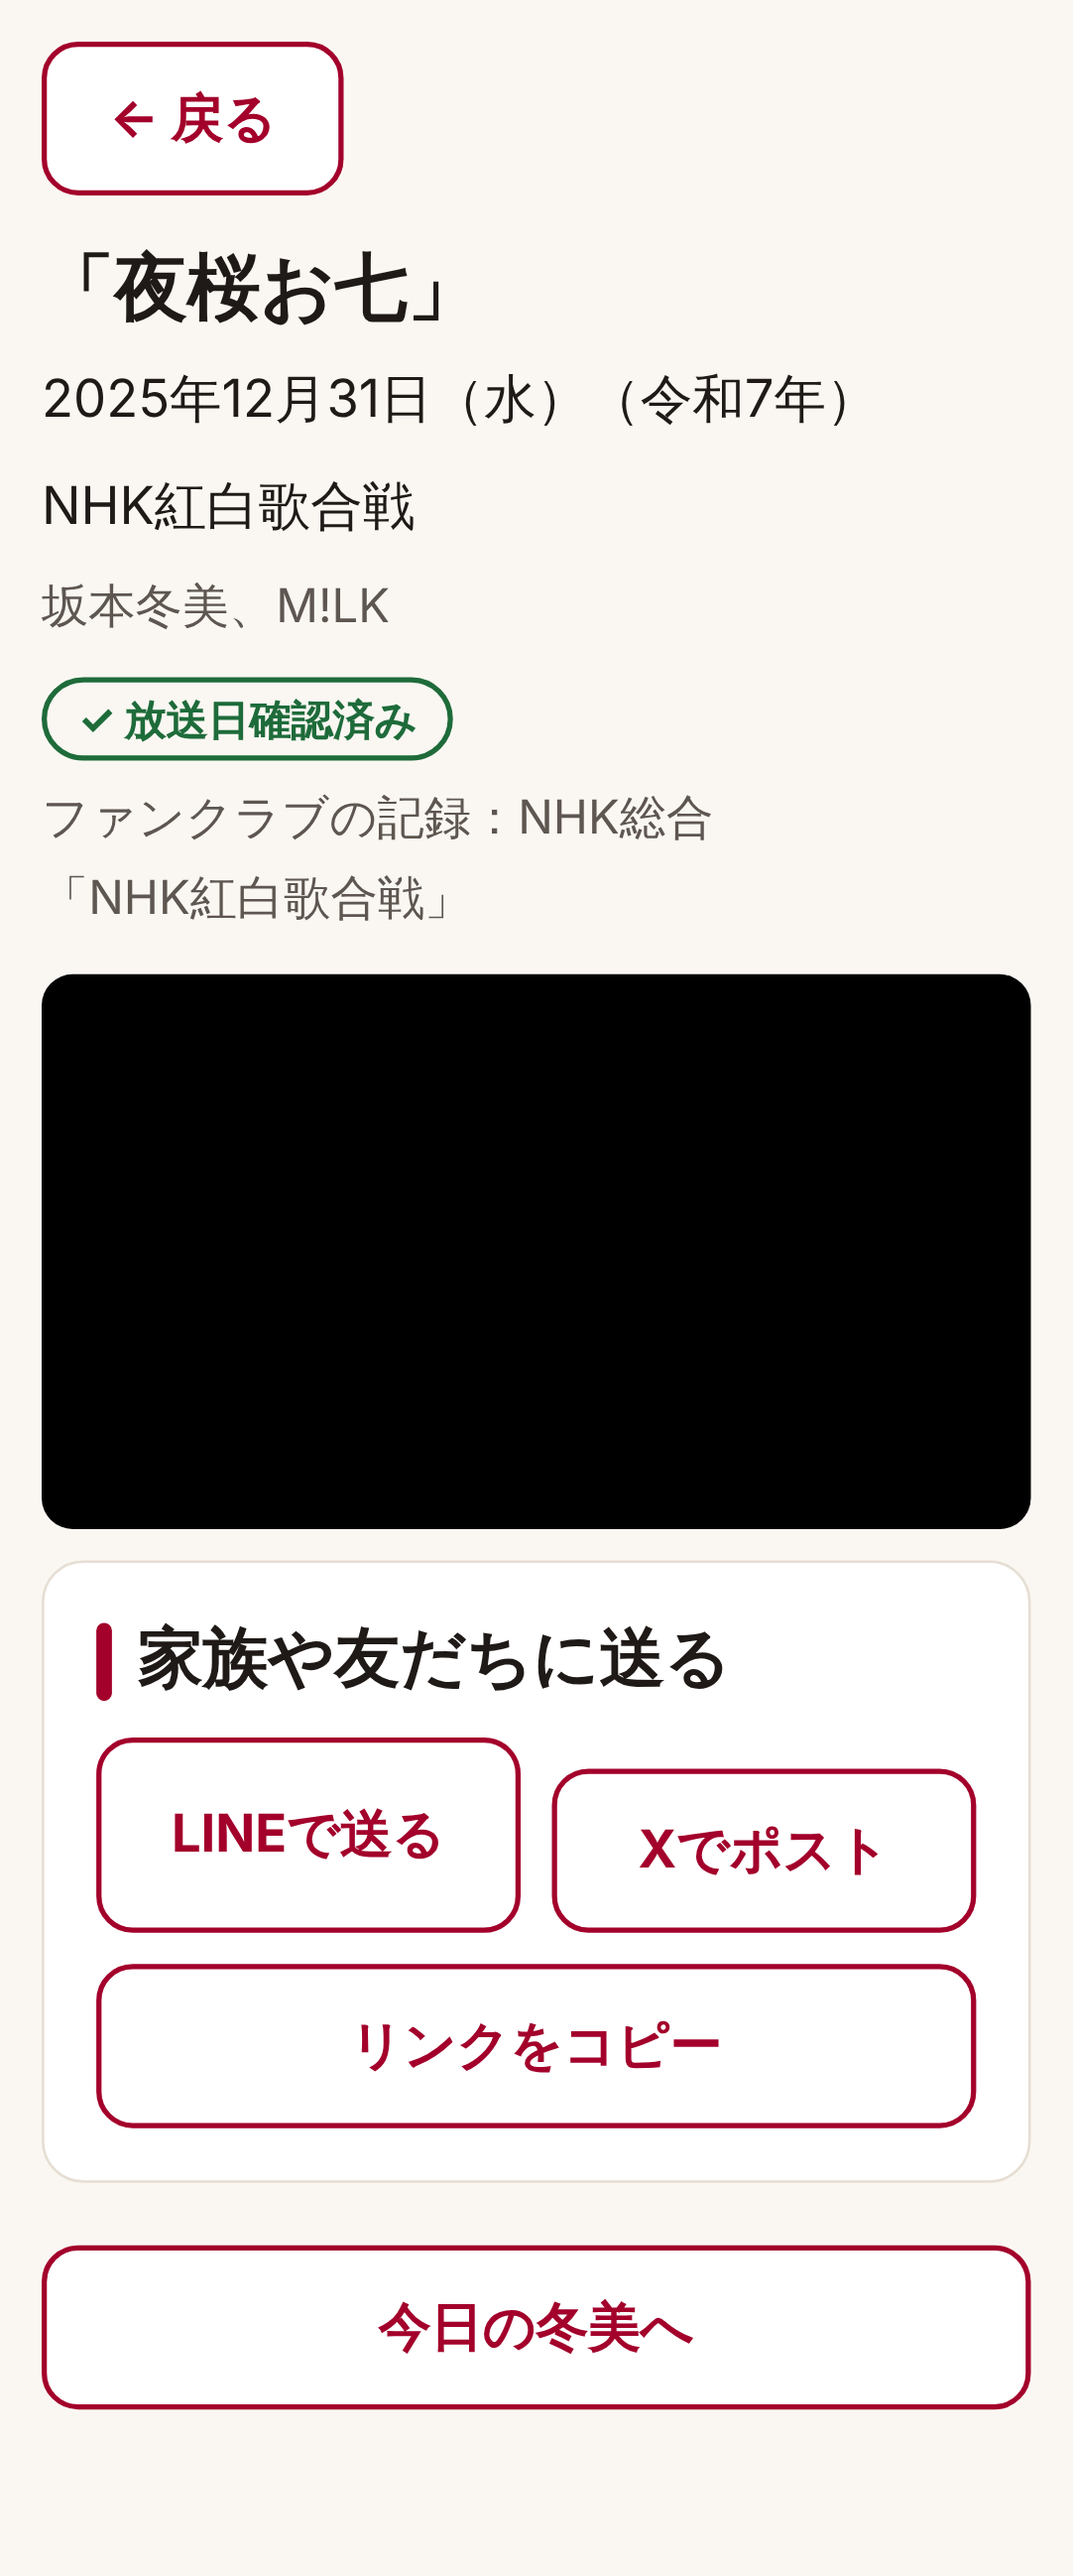
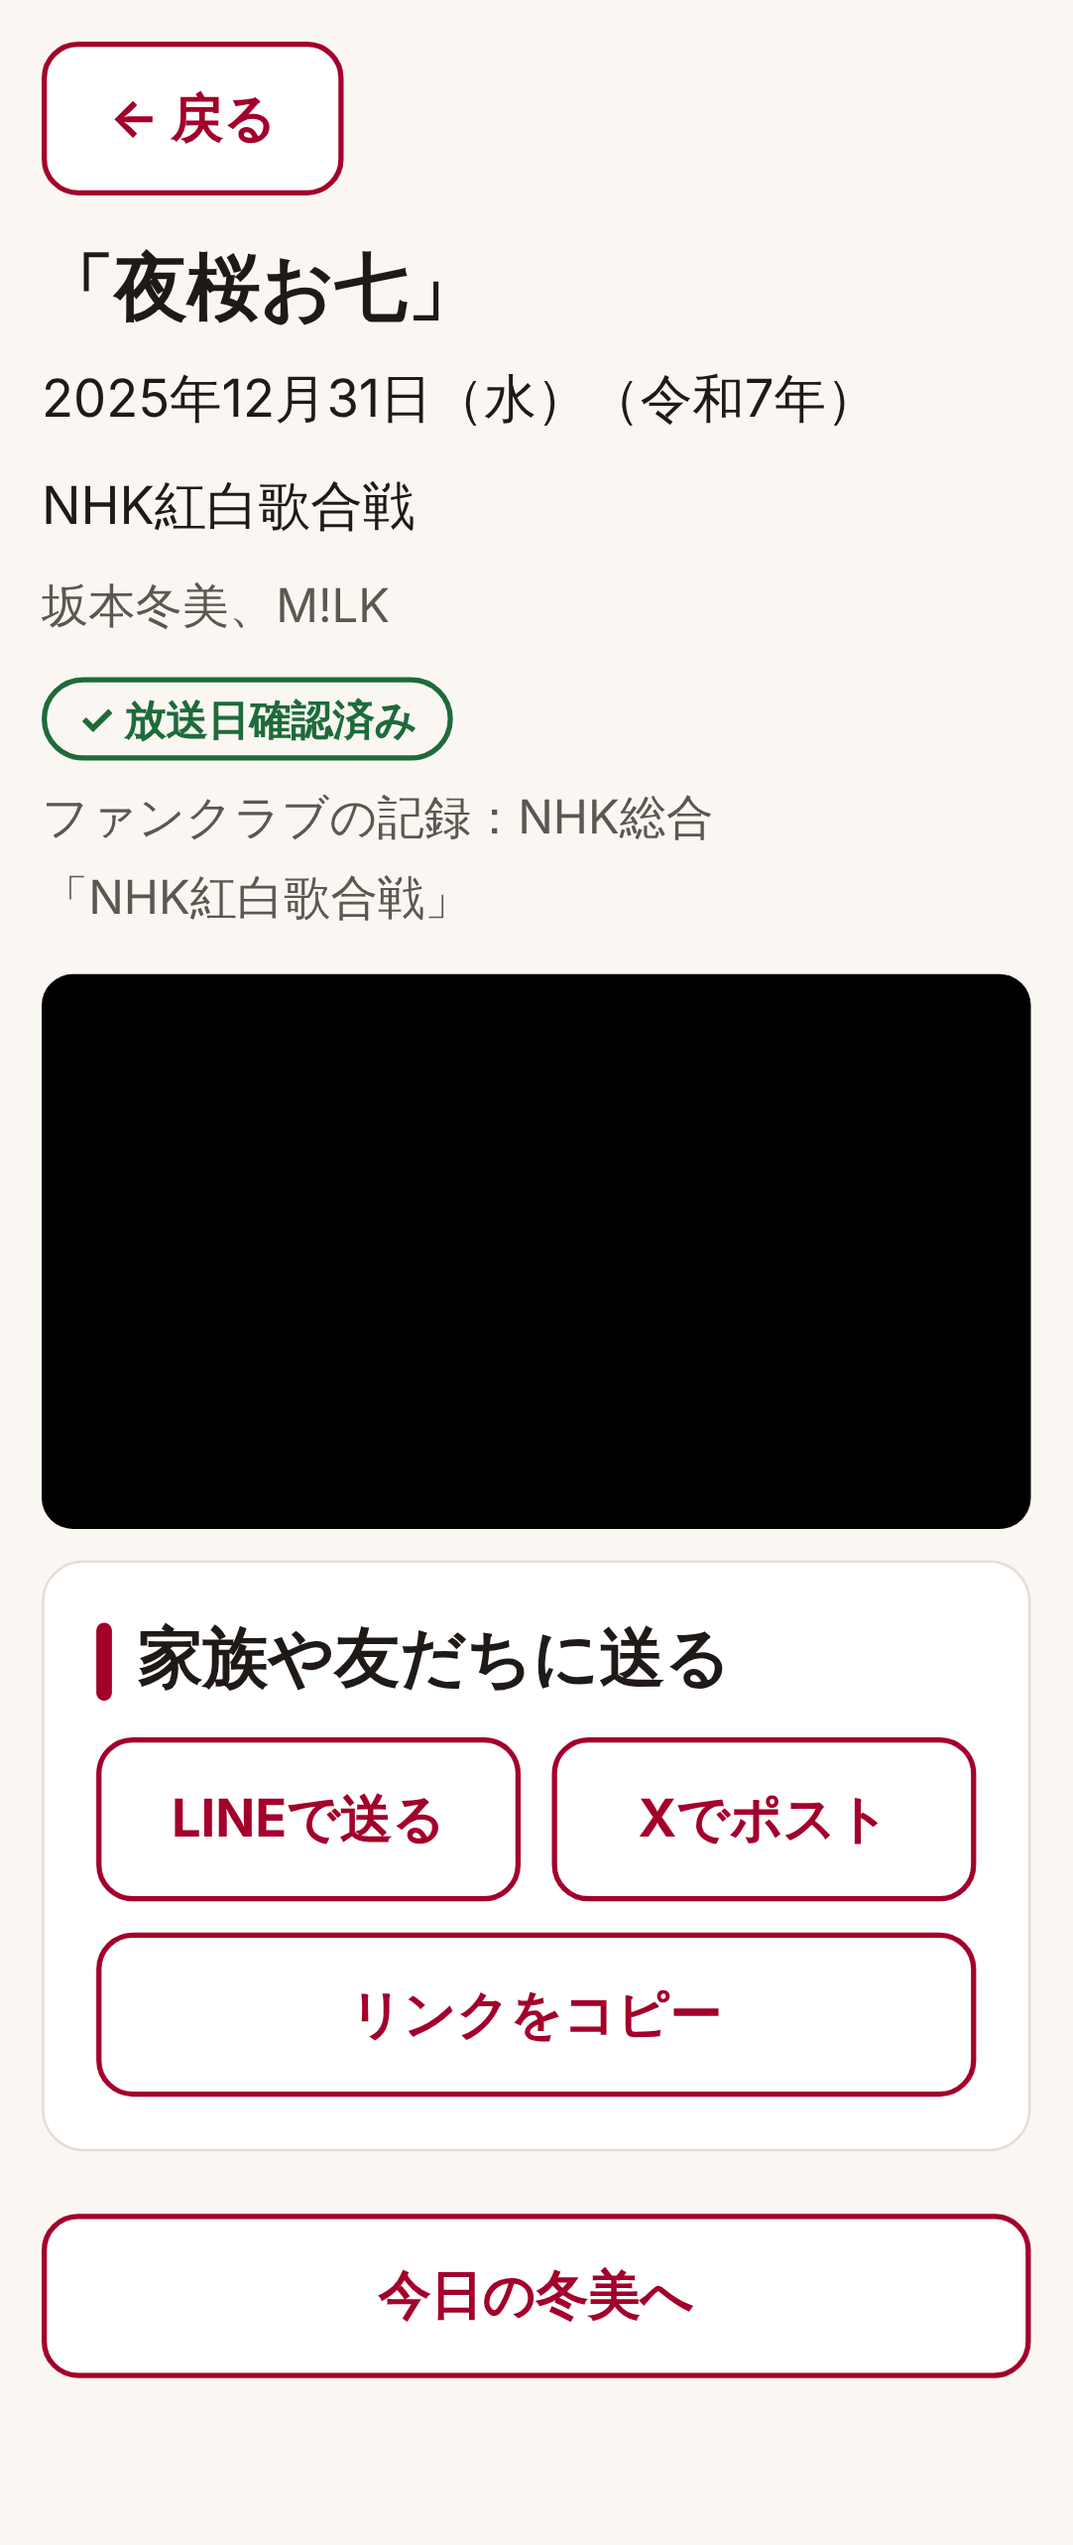
feat: calendar, song index, song pages

diff --git a/site/assets/calendar.js b/site/assets/calendar.js
@@ -1,0 +1,72 @@
+/* カレンダー: list of days with content (default) or a month grid; tapping a day shows every year. */
+(async function () {
+  const main = document.getElementById("main");
+  const calEl = document.getElementById("cal");
+  const dayEl = document.getElementById("day");
+  let cal = {};
+  try { cal = await F.json("/data/calendar.json"); } catch (e) { calEl.innerHTML = "<p>読み込めませんでした。</p>"; }
+  const now = new Date(Date.now());
+  let y = now.getFullYear(), m = now.getMonth() + 1;
+  let mode = "list";
+  const pad = (n) => String(n).padStart(2, "0");
+
+  const summary = (c) => [c.videos ? `映像${c.videos}本` : "", c.letters ? `冬美便り${c.letters}件` : "", c.flash ? "週刊FLASH 対談" : ""].filter(Boolean).join("・");
+
+  function render() {
+    const days = new Date(y, m, 0).getDate();
+    let body = "";
+    if (mode === "list") {
+      const rows = [];
+      for (let d = 1; d <= days; d++) {
+        const c = cal[`${pad(m)}-${pad(d)}`];
+        if (c) rows.push(`<li><button class="btn" type="button" data-md="${pad(m)}-${pad(d)}">${m}月${d}日（${summary(c)}）</button></li>`);
+      }
+      body = rows.length ? `<ul class="list" style="display:grid;gap:.5rem">${rows.join("")}</ul>` : `<p>この月はまだありません。</p>`;
+    } else {
+      const first = new Date(y, m - 1, 1).getDay();
+      const cells = "日月火水木金土".split("").map((w) => `<div class="dow">${w}</div>`);
+      for (let i = 0; i < first; i++) cells.push(`<button disabled aria-hidden="true"></button>`);
+      const today = now.getMonth() + 1 === m && now.getFullYear() === y ? now.getDate() : -1;
+      for (let d = 1; d <= days; d++) {
+        const md = `${pad(m)}-${pad(d)}`, c = cal[md];
+        const label = c ? `${m}月${d}日 ${summary(c)}` : `${m}月${d}日 なし`;
+        cells.push(`<button type="button" data-md="${md}" class="${c ? "has" : ""} ${d === today ? "today" : ""}" aria-label="${label}">` +
+          `${d}${c ? '<span class="dot"></span>' : ""}</button>`);
+      }
+      body = `<div class="grid">${cells.join("")}</div><p class="muted">赤い点のある日に、映像や便りがあります。</p>`;
+    }
+    calEl.innerHTML =
+      `<div class="tabs"><button class="btn" type="button" data-mode="list" aria-pressed="${mode === "list"}">一覧表示</button>` +
+      `<button class="btn" type="button" data-mode="grid" aria-pressed="${mode === "grid"}">カレンダー表示</button></div>` +
+      `<div class="monthbar"><span class="label">${y}年${m}月</span><button class="btn" type="button" id="prev">◀ 前の月</button>` +
+      `<button class="btn" type="button" id="next">次の月 ▶</button></div>` +
+      `<button class="btn" type="button" id="today" style="margin-bottom:.8rem">今日</button>` + body;
+  }
+
+  async function showDay(md) {
+    dayEl.innerHTML = "<p>読み込み中…</p>";
+    let d;
+    try { d = await F.json(`/data/days/${md}.json`); } catch (e) { dayEl.innerHTML = "<p>この日はまだありません。</p>"; return; }
+    const years = d.years.map((yr) => {
+      const letters = yr.letters.map((l) => `<li><a class="row" href="${F.esc(F.goHref(l.url))}"><span>冬美便り「${F.esc(l.title)}」</span><span class="arrow">読む</span></a></li>`).join("");
+      const flash = yr.flash.map((f) => `<li><a class="row" href="${F.esc(F.goHref(f.letter_url))}"><span>週刊FLASH 対談${f.guest ? `（${F.esc(f.guest)}さん）` : ""}</span><span class="arrow">読む</span></a></li>`).join("");
+      return `<p class="year">${F.esc(yr.year_label)}</p>${F.cards(yr.clips)}${letters || flash ? `<ul class="list">${letters}${flash}</ul>` : ""}`;
+    }).join("");
+    dayEl.innerHTML = `<section class="section"><h2>${F.esc(d.label)}の冬美</h2>${years}</section>`;
+    dayEl.scrollIntoView({ behavior: "smooth", block: "start" });
+  }
+
+  calEl.addEventListener("click", (e) => {
+    const b = e.target.closest("button");
+    if (!b) return;
+    if (b.dataset.mode) { mode = b.dataset.mode; render(); }
+    else if (b.id === "prev") { m--; if (m < 1) { m = 12; y--; } render(); }
+    else if (b.id === "next") { m++; if (m > 12) { m = 1; y++; } render(); }
+    else if (b.id === "today") { y = now.getFullYear(); m = now.getMonth() + 1; render(); }
+    else if (b.dataset.md) showDay(b.dataset.md);
+  });
+  render();
+  F.backButton(main);
+  F.lineBanner(main);
+  F.footer();
+})();

diff --git a/site/assets/songs.js b/site/assets/songs.js
@@ -1,0 +1,31 @@
+/* 曲名でさがす (songs.html) and one song (song.html?id=...). */
+(async function () {
+  const main = document.getElementById("main");
+  const id = new URLSearchParams(location.search).get("id");
+  if (location.pathname.endsWith("/song.html")) {
+    let s;
+    try { s = await F.json(`/data/songs/${encodeURIComponent(id)}.json`); }
+    catch (e) { main.innerHTML = "<p>この曲は見つかりませんでした。</p>"; F.backButton(main); F.footer(); return; }
+    document.title = `「${s.title}」 | 今日の冬美`;
+    main.innerHTML = `<h1>「${F.esc(s.title)}」</h1><p class="muted">${F.esc(s.yomi)}</p>` +
+      `<section class="section"><h2>この曲の映像</h2>${F.cards(s.clips)}</section>` +
+      (s.letters.length ? `<section class="section"><h2>この曲が出てくる冬美便り</h2><ul class="list">` +
+        s.letters.map((l) => `<li><a class="row" href="${F.esc(F.goHref(l.url))}"><span>${F.esc(l.title)}<br><span class="muted">${F.esc(l.date_label)}</span></span><span class="arrow">読む</span></a></li>`).join("") +
+        `</ul></section>` : "") +
+      `<nav class="nav"><a class="btn" href="/songs.html">曲名でさがす</a></nav>`;
+  } else {
+    const el = document.getElementById("songs");
+    let songs = [];
+    try { songs = await F.json("/data/songs.json"); } catch (e) { el.innerHTML = "<p>読み込めませんでした。</p>"; }
+    const order = ["あ", "か", "さ", "た", "な", "は", "ま", "や", "ら", "わ", "英数字"];
+    const groups = order.map((g) => [g, songs.filter((s) => s.gyo === g)]).filter(([, l]) => l.length);
+    el.innerHTML = `<nav class="gyo" aria-label="行">${groups.map(([g]) => `<a class="btn" href="#gyo-${g}">${g}</a>`).join("")}</nav>` +
+      groups.map(([g, list]) => `<section class="section" id="gyo-${g}"><h2>${g === "英数字" ? "英数字" : g + "行"}</h2><ul class="list">` +
+        list.map((s) => `<li><a class="row" href="/song.html?id=${encodeURIComponent(s.id)}"><span><span class="song-title">「${F.esc(s.title)}」</span>` +
+          `<span class="yomi">${F.esc(s.yomi)}</span></span><span class="count">${s.count}本</span></a></li>`).join("") +
+        `</ul></section>`).join("");
+  }
+  F.backButton(main);
+  F.lineBanner(main);
+  F.footer();
+})();

diff --git a/site/assets/app.css b/site/assets/app.css
@@ -96,8 +96,10 @@ footer a { color: var(--muted); }
 /* calendar */
 .tabs { display: grid; grid-template-columns: 1fr 1fr; gap: 0.6rem; margin-bottom: 0.8rem; }
 .tabs .btn[aria-pressed="true"] { background: var(--accent); color: var(--accent-ink); }
-.monthbar { display: grid; grid-template-columns: 1fr auto 1fr; gap: 0.5rem; align-items: center; margin-bottom: 0.8rem; }
-.monthbar .label { font-size: 1.3rem; font-weight: 700; text-align: center; padding: 0 0.4rem; }
+.monthbar { display: grid; grid-template-columns: 1fr 1fr; gap: 0.5rem; align-items: center; margin-bottom: 0.6rem; }
+.monthbar .label { grid-column: 1 / -1; font-size: 1.4rem; font-weight: 700; text-align: center; }
+.tabs .btn + .btn, .monthbar .btn + .btn, .btn-row .btn + .btn { margin-top: 0; }
+.monthbar .btn, .tabs .btn { padding: 0.4rem 0.3rem; white-space: nowrap; font-size: 0.95rem; }
 .grid { display: grid; grid-template-columns: repeat(7, minmax(0, 1fr)); gap: 4px; }
 .grid .dow { text-align: center; font-size: 0.8rem; color: var(--muted); }
 .grid button { min-height: 56px; border: 1px solid var(--line); border-radius: 10px; background: var(--card); color: var(--text);

diff --git a/site/calendar.html b/site/calendar.html
@@ -1,0 +1,22 @@
+<!doctype html>
+<html lang="ja">
+<head>
+<meta charset="utf-8">
+<meta name="viewport" content="width=device-width, initial-scale=1">
+<meta name="robots" content="noindex,nofollow">
+<meta name="theme-color" content="#A3002B">
+<link rel="manifest" href="/manifest.webmanifest">
+<link rel="icon" href="/icon-512.png">
+<link rel="apple-touch-icon" href="/icon-512.png">
+<link rel="preconnect" href="https://fonts.googleapis.com">
+<link rel="stylesheet" href="https://fonts.googleapis.com/css2?family=Noto+Sans+JP:wght@400;700&display=swap">
+<link rel="stylesheet" href="/assets/app.css">
+<title>カレンダー | 今日の冬美</title>
+</head>
+<body>
+<main id="main"><h1>カレンダー</h1><p class="muted">日にちを選ぶと、いろいろな年のその日の映像・冬美便り・週刊FLASH 対談が見られます。</p><div id="cal"></div><div id="day"></div></main>
+<script src="/config.js"></script>
+<script src="/assets/common.js"></script>
+<script src="/assets/calendar.js"></script>
+</body>
+</html>

diff --git a/site/songs.html b/site/songs.html
@@ -1,0 +1,22 @@
+<!doctype html>
+<html lang="ja">
+<head>
+<meta charset="utf-8">
+<meta name="viewport" content="width=device-width, initial-scale=1">
+<meta name="robots" content="noindex,nofollow">
+<meta name="theme-color" content="#A3002B">
+<link rel="manifest" href="/manifest.webmanifest">
+<link rel="icon" href="/icon-512.png">
+<link rel="apple-touch-icon" href="/icon-512.png">
+<link rel="preconnect" href="https://fonts.googleapis.com">
+<link rel="stylesheet" href="https://fonts.googleapis.com/css2?family=Noto+Sans+JP:wght@400;700&display=swap">
+<link rel="stylesheet" href="/assets/app.css">
+<title>曲名でさがす | 今日の冬美</title>
+</head>
+<body>
+<main id="main"><h1>曲名でさがす</h1><p class="muted">五十音順です。上の文字を押すと、その行に移ります。</p><div id="songs"><p>読み込み中…</p></div></main>
+<script src="/config.js"></script>
+<script src="/assets/common.js"></script>
+<script src="/assets/songs.js"></script>
+</body>
+</html>

diff --git a/site/song.html b/site/song.html
@@ -1,0 +1,22 @@
+<!doctype html>
+<html lang="ja">
+<head>
+<meta charset="utf-8">
+<meta name="viewport" content="width=device-width, initial-scale=1">
+<meta name="robots" content="noindex,nofollow">
+<meta name="theme-color" content="#A3002B">
+<link rel="manifest" href="/manifest.webmanifest">
+<link rel="icon" href="/icon-512.png">
+<link rel="apple-touch-icon" href="/icon-512.png">
+<link rel="preconnect" href="https://fonts.googleapis.com">
+<link rel="stylesheet" href="https://fonts.googleapis.com/css2?family=Noto+Sans+JP:wght@400;700&display=swap">
+<link rel="stylesheet" href="/assets/app.css">
+<title>曲 | 今日の冬美</title>
+</head>
+<body>
+<main id="main"><p>読み込み中…</p></main>
+<script src="/config.js"></script>
+<script src="/assets/common.js"></script>
+<script src="/assets/songs.js"></script>
+</body>
+</html>
